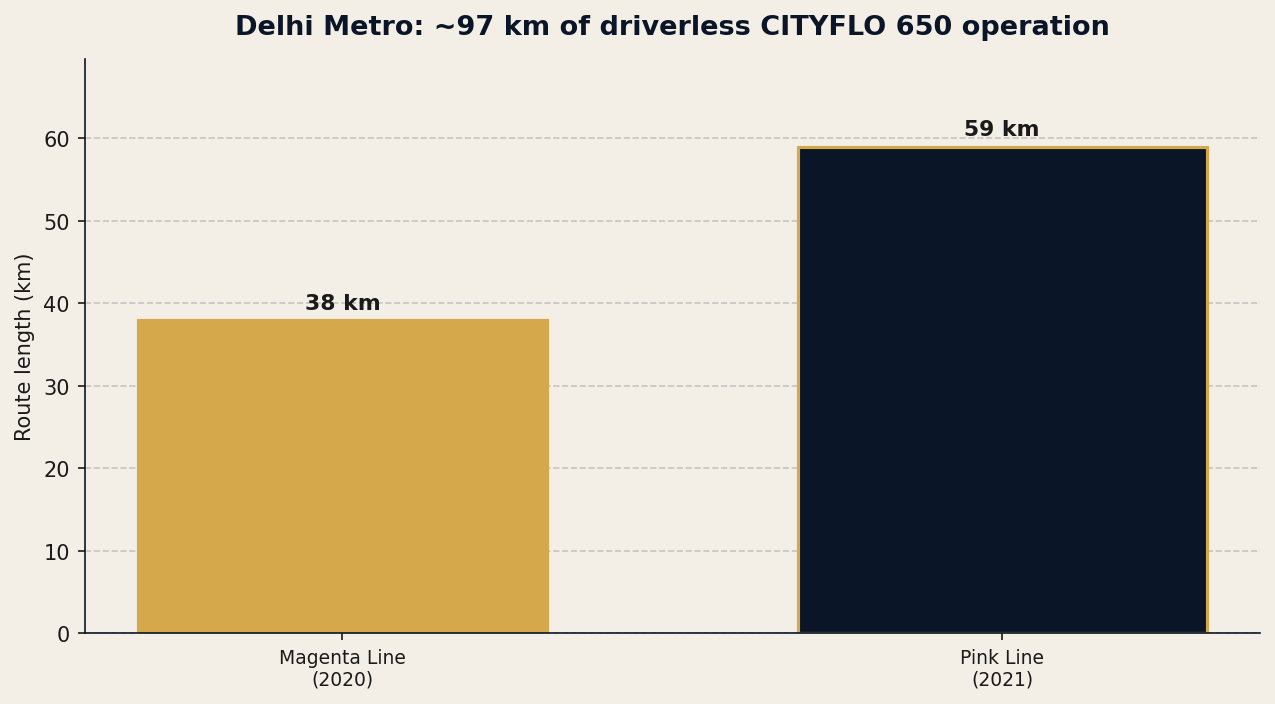
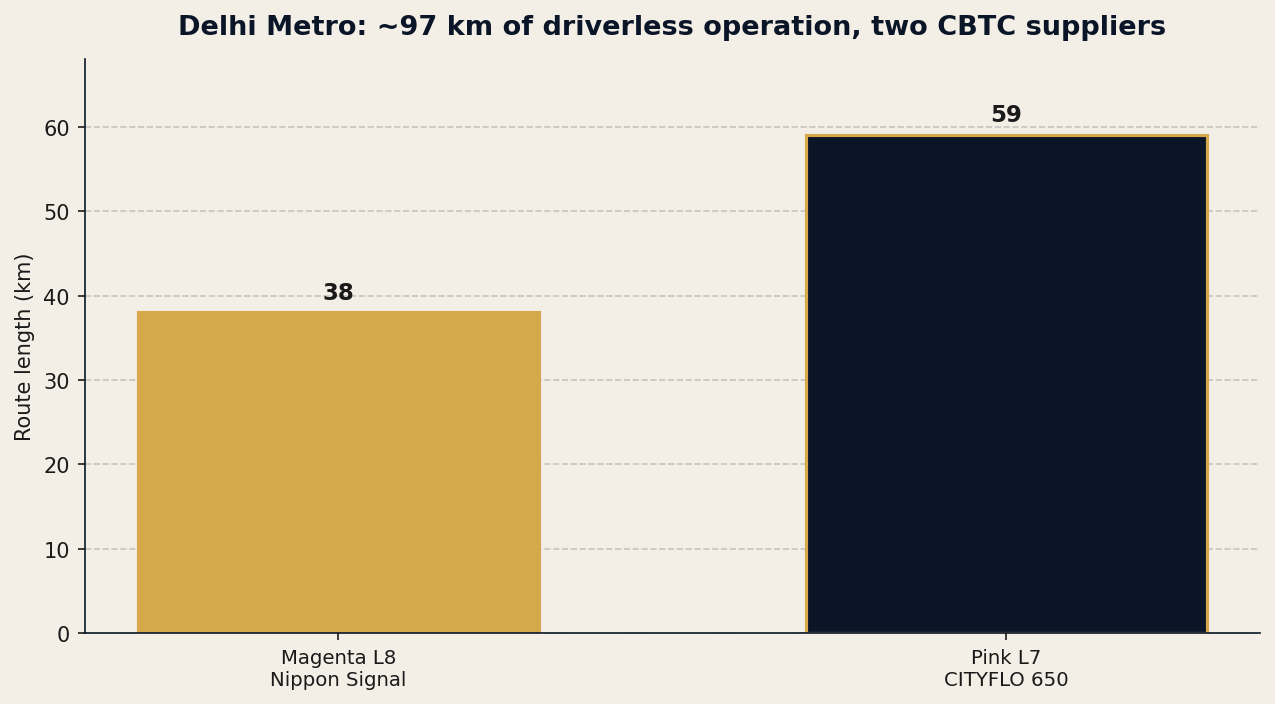
blog: apply adversarial fact-check corrections to wave-1/2 articles
Two independent fact-check passes over the 11 new articles surfaced
errors, now fixed before publication:
- Delhi: Magenta Line (India's first driverless, 2020) uses Nippon
  Signal SPARCS, NOT Bombardier CITYFLO 650 — corrected title/meta/body/
  figure/chart; only the Pink Line is CITYFLO 650.
- Dubai: figure double-counted Route 2020 (Red Line 67 km already
  includes it) — corrected to ~90 km network (Red 52 in 2009); fixed the
  Guinness date/narrative (record set 2011, held since, not 2009/reclaimed
  2021); softened the 90-second headway claim to Thales's stated figure.
- Kuala Lumpur: intro ridership (1.5M) contradicted the body (>750k) —
  reconciled to >750k weekday.
- VAL: dropped "first new US metro since 1993" (Tren Urbano 2004);
  kept the defensible first-US-GoA-4 claim.
- Training: IEEE 1474.1 first issued 1999, not 2004.
- Seoul: dropped an unverified contract figure and softened two
  superlatives (light-metro "mainline-scale"; Busan-Gimhae "first").

diff --git a/blog-drafts/delhi-metro-cbtc.md b/blog-drafts/delhi-metro-cbtc.md
@@ -1,11 +1,11 @@
 ---
 title: "Delhi Metro CBTC: Driverless Operation Inside a Fast, Cost-Disciplined Program"
 slug: delhi-metro-cbtc
-description: "How Delhi Metro CBTC — a Bombardier CITYFLO 650 moving-block deployment that carried India's first driverless train in December 2020 — scaled unattended operation across the Magenta and Pink Lines, and what US agencies can learn from a very large, fast, cost-disciplined program."
+description: "How Delhi Metro CBTC — Nippon Signal on the Magenta Line that carried India's first driverless train in December 2020, and Bombardier CITYFLO 650 on the Pink Line — scaled unattended operation, and what US agencies can learn from a fast, cost-disciplined program."
 date: 2026-08-18
 author: "Chunjun (Francisco) Wang"
 category: international-benchmarks
-tags: [CBTC, Delhi Metro, driverless, GoA 4, DMRC, Bombardier CITYFLO 650, i-ATS, international]
+tags: [CBTC, Delhi Metro, driverless, GoA 4, DMRC, Nippon Signal SPARCS, CITYFLO 650, i-ATS, international]
 primary_keyword: "Delhi Metro CBTC"
 secondary_keywords: ["Delhi Metro driverless", "Magenta Line UTO", "CITYFLO 650 CBTC", "DMRC signalling", "i-ATS indigenous train control"]
 related_chapters: [8, 11]
@@ -30,9 +30,9 @@ For US agencies, the transferable insight is organizational, not technical. Delh
 
 ## Delhi Metro CBTC: moving block on the Magenta and Pink Lines
 
-The two driverless lines run on Bombardier's CITYFLO 650, a radio-based moving-block CBTC product that supports the full range of operating modes up to Unattended Train Operation (UTO) ([Railway-News, 2018](https://railway-news.com/delhi-metro-line-7-cityflo-650/)). Each train continuously determines its own position, reports it over a radio network to wayside equipment, and receives a movement authority computed as a moving block rather than a fixed track-circuit section — the same functional architecture, shaped by IEEE Std 1474, described in [GoA 0–4 Explained: The Five Grades of Train Automation](/blog/goa-0-4-explained-grades-of-automation). On the Magenta and Pink Lines the system drives Hyundai Rotem rolling stock at speeds up to about 85 km/h, with a design capability for headways near 90 seconds, and every station is fitted with platform screen doors to enforce the platform-edge separation that unattended running requires.
+Delhi's two driverless lines run radio-based moving-block CBTC from two different suppliers: the Magenta Line (Line 8) on Nippon Signal's SPARCS, and the Pink Line (Line 7) on Bombardier's CITYFLO 650, now part of Alstom ([International Railway Journal](https://www.railjournal.com/signalling/nippon-signal-cbtc-for-delhi-metro-line-8/); [Railway-News, 2018](https://railway-news.com/delhi-metro-line-7-cityflo-650/)). Both support the full range of operating modes up to Unattended Train Operation (UTO). Each train continuously determines its own position, reports it over a radio network to wayside equipment, and receives a movement authority computed as a moving block rather than a fixed track-circuit section — the same functional architecture, shaped by IEEE Std 1474, described in [GoA 0–4 Explained: The Five Grades of Train Automation](/blog/goa-0-4-explained-grades-of-automation). On the Magenta and Pink Lines the system drives Hyundai Rotem rolling stock at speeds up to about 85 km/h, with a design capability for headways near 90 seconds, and every station is fitted with platform screen doors to enforce the platform-edge separation that unattended running requires.
 
-Nothing in that stack is unusual to a US engineer. What is worth noting is the supplier lineage. CITYFLO 650 was delivered by Bombardier Transportation, whose rail business became part of Alstom when that acquisition closed in early 2021 — so the product that carried India's first driverless train is now part of the Alstom portfolio, and Alstom has continued as the train-control and rolling-stock supplier on the Phase 4 extensions of both lines ([Metro Rail Today](https://metrorailtoday.com/news/alstom-powers-delhi-metros-pink-and-magenta-line-with-driverless-trains-and-cbtc-signalling)). The consolidation of the global CBTC vendor field — Bombardier into Alstom, and the broader thinning of independent suppliers — is exactly the market condition that makes vendor-neutral specification harder for US agencies, and it is why Delhi's later indigenisation push is more than a nationalist gesture.
+Nothing in that stack is unusual to a US engineer. What is worth noting is the supplier lineage. The Pink Line's CITYFLO 650 was delivered by Bombardier Transportation, whose rail business became part of Alstom when that acquisition closed in early 2021, and Alstom has continued as a train-control and rolling-stock supplier on the Phase 4 extensions ([Metro Rail Today](https://metrorailtoday.com/news/alstom-powers-delhi-metros-pink-and-magenta-line-with-driverless-trains-and-cbtc-signalling)). The Magenta Line's first-driverless system, by contrast, came from Nippon Signal — a reminder that even a single network can carry more than one CBTC lineage. The consolidation of the global CBTC vendor field — Bombardier into Alstom, and the broader thinning of independent suppliers — is exactly the market condition that makes vendor-neutral specification harder for US agencies, and it is why Delhi's later indigenisation push is more than a nationalist gesture.
 
 ## December 2020: India's first driverless train
 
@@ -45,7 +45,7 @@ The transition was deliberately gradual, and the distinction matters for anyone 
 
 Delhi did not stop at one line. In 2021 it brought Grade of Automation 4 (GoA 4) service to the Pink Line, designated Line 7, a roughly 59-kilometer corridor from Majlis Park to Shiv Vihar that forms the network's near-circular ring and stands as the longest driverless line in the country. With the Magenta and Pink Lines together, Delhi's unattended network reached close to 97 route-kilometers, which by one accounting placed it among the four largest driverless metro systems in the world at the time ([Wikipedia: Delhi Metro](https://en.wikipedia.org/wiki/Delhi_Metro)).
 
-[FIGURE: Bar chart of Delhi Metro's driverless (GoA 4) route length by line, in kilometers. DATA: Magenta Line (Line 8, 2020)=38, Pink Line (Line 7, 2021)=59. Caption: "Two Bombardier CITYFLO 650 lines make up close to 97 route-km of unattended operation — the Magenta Line's 38 km and the Pink Line's 59 km — built one line at a time on a live, growing network."]
+[FIGURE: Bar chart of Delhi Metro's driverless (GoA 4) route length by line, in kilometers. DATA: Magenta Line (Line 8, 2020)=38, Pink Line (Line 7, 2021)=59. Caption: "Close to 97 route-km of unattended operation on two CBTC platforms — the Magenta Line's 38 km (Nippon Signal SPARCS) and the Pink Line's 59 km (Bombardier/Alstom CITYFLO 650) — built one line at a time on a live, growing network."]
 
 The engineering significance is the reverse of Dubai's. Where the [Dubai Metro's driverless network](/blog/dubai-metro-cbtc-driverless-network) shows what GoA 4 looks like when it is designed into a greenfield system from the first survey stake, Delhi shows unattended operation added to an operating railway, phase by phase, with the standardization done up front so that later lines and extensions could inherit the same train-control approach. Phase 4 continues that logic: DMRC is procuring more than 300 driverless metro cars from Alstom — trainsets for the Pink and Magenta extensions and for the new Golden Line — designed for unattended operation and rated to a maximum safe speed near 95 km/h ([Metro Rail Today](https://metrorailtoday.com/news/dmrc-receives-first-driverless-trainset-for-delhi-metro-phase-4-project)). Extending a homogeneous automated line is a far smaller engineering problem than stitching new CBTC into a legacy interlocking, which is the boundary that consumes American brownfield schedules.
 
@@ -61,7 +61,7 @@ For US agencies, this is the most quotable part of the whole case. American prog
 
 - **The bottleneck is management, not the technology.** Delhi reached fully driverless CBTC on a very large network because it standardized rolling stock and train control up front and delivered on schedule; the transferable lesson for US agencies is organizational discipline, not a cheaper product.
 - **Adding UTO to a live network is a phased discipline.** Delhi ran attended for a transition period before withdrawing staff from the cab. That conservative, two-step commissioning is the credible path to GoA 4 and the one US safety oversight will expect.
-- **Vendor consolidation is a procurement risk, not a footnote.** The product that carried India's first driverless train, Bombardier's CITYFLO 650, is now part of Alstom. A thinning supplier field makes vendor-neutral specification harder and raises the stakes on writing supplier-agnostic requirements.
+- **Vendor consolidation is a procurement risk, not a footnote.** Delhi's two driverless lines run different CBTC products — Nippon Signal SPARCS on the Magenta Line, Bombardier's CITYFLO 650 (now part of Alstom) on the Pink Line. A thinning supplier field makes vendor-neutral specification harder and raises the stakes on writing supplier-agnostic requirements.
 - **Indigenisation should be sequenced, not slogan-driven.** Delhi started with the non-vital supervision layer (i-ATS) to build domestic capacity before attempting vital CBTC. A US domestic-content push on train control should respect the same order and the same certification bar.
 - **Do not copy the unit costs.** Delhi's labor economics, procurement law, and concessional financing do not transfer; citing its per-kilometer cost or schedule in a US business case invites a false comparison, even as its management model does travel.
 
@@ -73,6 +73,7 @@ This post is an 11-minute case study. The full treatment of international CBTC b
 
 - Wang, C. (2026). *Communications-Based Train Control, Volume 2: Operations, Deployment & Economics*. Independent. ISBN 979-8-258-54528-2. — [Chapter 11, "International Benchmarks with US Relevance"]
 - Railway-News. *Delhi Metro Line 7 Section Opens with Bombardier CITYFLO 650 System*. [railway-news.com](https://railway-news.com/delhi-metro-line-7-cityflo-650/)
+- International Railway Journal. *Nippon Signal to supply CBTC for Delhi Metro Line 8 (Magenta Line)*. [railjournal.com](https://www.railjournal.com/signalling/nippon-signal-cbtc-for-delhi-metro-line-8/)
 - The Print. *PM Modi launches India's first driverless metro train in Delhi. Here's all you need to know*. [theprint.in](https://theprint.in/theprint-essential/pm-modi-launches-indias-first-driverless-metro-train-in-delhi-heres-all-you-need-to-know/575285/)
 - Metro Rail Today. *Alstom powers Delhi Metro's Pink and Magenta Line with Driverless Trains and CBTC Signalling*. [metrorailtoday.com](https://metrorailtoday.com/news/alstom-powers-delhi-metros-pink-and-magenta-line-with-driverless-trains-and-cbtc-signalling)
 - Metro Rail Today. *DMRC receives first driverless trainset for Delhi Metro Phase 4 Project*. [metrorailtoday.com](https://metrorailtoday.com/news/dmrc-receives-first-driverless-trainset-for-delhi-metro-phase-4-project)

diff --git a/blog-drafts/seoul-metro-cbtc-line-9.md b/blog-drafts/seoul-metro-cbtc-line-9.md
@@ -30,12 +30,12 @@ The other reason is the signalling itself. Line 9 does not run on radio moving-b
 
 Korea's genuine unattended operation lives on newer, mostly Thales-signalled lines, and it arrived early. The Shinbundang Line, since rebranded the DX Line, opened in October 2011 as what its operator describes as Korea's first driverless heavy-rail metro and, reportedly, the fifth subway in the world to run completely without an onboard driver. It now runs 33.4 kilometers with 16 stations under operator NeoTrans, on a Thales CBTC system at GoA 4 — full unattended train operation — with Hyundai Rotem trainsets and a maximum speed above 90 kilometers per hour, the fastest average speed of any subway line in the country. Where Line 9 optimizes throughput with drivers, the Shinbundang Line demonstrated that a Korean private operator could run genuine unattended service at intercity speeds a decade before most US agencies placed a single CBTC train in revenue service.
 
-Incheon completed the picture on the mainline scale. Incheon Subway Line 2 opened on 30 July 2016 as a fully driverless line, 29.2 kilometers and 27 stations, on a Thales SelTrac CBTC system delivered under a contract reported at 40 million euros, with 37 two-car Hyundai Rotem trainsets built in 2013 running on a 750-volt third rail. The line reportedly holds peak headways in the range of four to five minutes, and every station was built to accommodate longer four-car trains as demand grows — a designed-in capacity margin that greenfield GoA 4 lines can afford and brownfield retrofits almost never can. Line 2 belongs squarely in the genuine-GoA-4 column discussed in [Driverless Operations Worldwide: Who's GoA 4, Who's Faking It](/blog/driverless-operations-worldwide-goa-4), and it did what Dubai did, at a KRW 2 trillion construction cost, without the Gulf's blank-sheet advantage: it threaded a driverless metro through an existing Korean city.
+Incheon completed the picture on the mainline scale. Incheon Subway Line 2 opened on 30 July 2016 as a fully driverless line, 29.2 kilometers and 27 stations, on a Thales SelTrac CBTC system, with 37 two-car Hyundai Rotem trainsets built in 2013 running on a 750-volt third rail. The line reportedly holds peak headways in the range of four to five minutes, and every station was built to accommodate longer four-car trains as demand grows — a designed-in capacity margin that greenfield GoA 4 lines can afford and brownfield retrofits almost never can. Line 2 belongs squarely in the genuine-GoA-4 column discussed in [Driverless Operations Worldwide: Who's GoA 4, Who's Faking It](/blog/driverless-operations-worldwide-goa-4), and it did what Dubai did, at a KRW 2 trillion construction cost, without the Gulf's blank-sheet advantage: it threaded a driverless metro through an existing Korean city.
 
 
 ## Light metro at the edges, and the crowding paradox
 
-The clearest lesson from Seoul is one its engineers learned the hard way: driverless does not mean high capacity. The two automated light-metro lines that fan out from the region's airports prove the point. The Busan-Gimhae Light Rail Transit opened in September 2011, running 23.5 kilometers on continuous viaduct through Gimhae International Airport with 21 stations, signalled by Thales and worked by driverless two-car Hyundai Rotem sets — the first commercially qualified driverless light rail in Korea. The Gimpo Goldline followed on 28 September 2019, a driverless light metro of 23.67 kilometers and 10 stations feeding Gimpo airport and the dense new towns of its namesake city, run by 23 two-car Hyundai Rotem trainsets at up to 80 kilometers per hour, with onboard attendants rather than drivers.
+The clearest lesson from Seoul is one its engineers learned the hard way: driverless does not mean high capacity. The two automated light-metro lines that fan out from the region's airports prove the point. The Busan-Gimhae Light Rail Transit opened in September 2011, running 23.5 kilometers on continuous viaduct through Gimhae International Airport with 21 stations, signalled by Thales and worked by driverless two-car Hyundai Rotem sets — one of Korea's earliest driverless light rail lines. The Gimpo Goldline followed on 28 September 2019, a driverless light metro of 23.67 kilometers and 10 stations feeding Gimpo airport and the dense new towns of its namesake city, run by 23 two-car Hyundai Rotem trainsets at up to 80 kilometers per hour, with onboard attendants rather than drivers.
 
 Both lines were sized for airport-access demand and both were overwhelmed by commuter demand. The Gimpo Goldline in particular became a national crowding scandal: its two-car driverless trains have run at more than 200 percent of rated capacity, and in August 2024 the operator raised frequency from 24 to 26 trains an hour, close to the practical ceiling of the CBTC headway, without solving the problem. The constraint is not the signalling, which can pack trains tightly, but the train — two narrow cars cannot be lengthened on demand the way Incheon Line 2's four-car-ready platforms can. For a US agency tempted to read "driverless" as "capacity solution," Gimpo is the cautionary case: automation buys frequency and labor economics, not train length, and a line specified too small at the platform stays too small forever. This is the same platform-length discipline examined in the greenfield-design lessons of [Singapore's North East Line](/blog/singapore-mrt-nel-original-greenfield-cbtc), applied here as a warning rather than a model.
 
@@ -54,7 +54,7 @@ Seoul's value to an American program is that it separates several variables the 
 ## What this means in practice
 
 - **Do not confuse a famous metro with a driverless one.** Line 9 is Korea's showcase express line, but it runs Alstom track-circuit ATC at GoA 2 with a driver; citing it as a CBTC or driverless benchmark misstates the technology and invites a flawed business case.
-- **Korea proves driverless CBTC at two scales.** The Shinbundang and Incheon Line 2 lines demonstrate mature GoA 4 heavy and mainline-scale operation; the technology risk US agencies fear was retired abroad years ago.
+- **Korea proves driverless CBTC at genuine urban scale.** The Shinbundang and Incheon Line 2 lines demonstrate mature GoA 4 operation on real, city-threading routes; the technology risk US agencies fear was retired abroad years ago.
 - **Automation is not a capacity fix.** The Gimpo Goldline runs driverless at more than 200 percent load because two-car trains cannot grow; specify platform and train length for the demand you will have, not the demand you have today.
 - **The legacy retrofit is the real analog.** Seoul's Ui-Sinseol CBTC pilot, and its planned Line 2 and Line 9 conversions, are brownfield resignaling with the same cutover and re-certification costs that shape every US program.
 - **Domestic supply is strategy, not sentiment.** KTCS-M gives Korea a home-grown CBTC option that eases vendor lock-in; under BABA, a comparable US supply base is close to a funding precondition rather than a preference.

diff --git a/blog-drafts/dubai-metro-cbtc-driverless-network.md b/blog-drafts/dubai-metro-cbtc-driverless-network.md
@@ -14,7 +14,7 @@ og_image: "/blog/img/dubai-metro-cbtc-driverless-network.png"
 read_time: "10 min"
 ---
 
-On 9 September 2009 — at exactly nine minutes past nine in the evening, a date chosen for its numerical symmetry — the first train on the Dubai Metro Red Line pulled out of a station with no driver in the cab, and no cab at all. Seven years before an American transit agency would place a single revenue train under Communications-Based Train Control on a brownfield line, an emirate with no prior heavy-rail tradition opened a fully automated metro that would hold, and later reclaim, the Guinness World Record for the longest driverless network on earth. For a US transit engineer, Dubai is the cleanest available demonstration of what Communications-Based Train Control (CBTC) delivers when it is designed into a system from the first survey stake rather than retrofitted into a signaling estate built during the Truman administration.
+On 9 September 2009 — at exactly nine minutes past nine in the evening, a date chosen for its numerical symmetry — the first train on the Dubai Metro Red Line pulled out of a station with no driver in the cab, and no cab at all. Seven years before an American transit agency would place a single revenue train under Communications-Based Train Control on a brownfield line, an emirate with no prior heavy-rail tradition opened a fully automated metro that holds the Guinness World Record for the world's longest driverless metro line. For a US transit engineer, Dubai is the cleanest available demonstration of what Communications-Based Train Control (CBTC) delivers when it is designed into a system from the first survey stake rather than retrofitted into a signaling estate built during the Truman administration.
 
 ## Why a US engineer should study a Gulf metro
 
@@ -22,17 +22,17 @@ The United States tends to benchmark itself against London, Paris, and its own a
 
 ## The system: Thales SelTrac, driverless from the first day
 
-The Dubai Metro runs on a Thales SelTrac CBTC system, the same product family — under different generational designations — that governs the automated lines of Vancouver, London, and dozens of other networks. From revenue day one the metro operated at GoA 4: no driver, no attendant in the leading car, and full-height platform screen doors at every station to enforce the platform-edge separation that unattended operation requires. The CBTC continuously determines each train's position independent of track circuits, exchanges data with wayside zone controllers, and computes the moving-block braking authority that lets trains follow one another at a design headway of roughly 90 seconds at a maximum speed near 90 kilometers per hour.
+The Dubai Metro runs on a Thales SelTrac CBTC system, the same product family — under different generational designations — that governs the automated lines of Vancouver, London, and dozens of other networks. From revenue day one the metro operated at GoA 4: no driver, no attendant in the leading car, and full-height platform screen doors at every station to enforce the platform-edge separation that unattended operation requires. The CBTC continuously determines each train's position independent of track circuits, exchanges data with wayside zone controllers, and computes the moving-block braking authority that lets trains follow one another at close moving-block headways — Thales cites service headways as short as two minutes — at a maximum speed near 90 kilometers per hour.
 
 Nothing in that architecture is exotic to a US engineer; it is the same IEEE 1474-shaped functional stack described in [GoA 0–4 Explained: The Five Grades of Train Automation](/blog/goa-0-4-explained-grades-of-automation). What is unusual is that every element — the vital onboard processor, the radio, the platform doors, the central Automatic Train Supervision — was specified together, by one authority, for a system that had no trains, no track, and no operating rules to be compatible with. The integration risk that consumes American brownfield schedules simply did not exist.
 
 ## The scale: two lines, a record, and an Expo extension
 
-The network opened as two lines. The Red Line runs roughly 67 kilometers with 35 stations along the Sheikh Zayed Road spine; the Green Line adds about 22.5 kilometers and 20 stations through the older urban core. That combined length was enough to earn the 2009 Guinness World Record for the longest fully automated metro, a title Dubai held until 2016 and reclaimed in 2021.
+The network opened in September 2009 with the Red Line, then roughly 52 kilometers along the Sheikh Zayed Road spine; the Green Line, about 22.5 kilometers and 20 stations through the older urban core, followed in 2011. The Red Line set the Guinness World Record for the world's longest driverless metro line, a distinction Dubai has retained as the network grew — the Red Line reaching about 67 kilometers and 35 stations when the 15-kilometer Route 2020 branch opened in 2021, for a present-day network of roughly 90 route-kilometers.
 
 The 2021 milestone matters more than a record certificate. Ahead of the World Expo, the Roads and Transport Authority (RTA) extended the Red Line by a 15-kilometer branch — the project marketed as Route 2020 — again contracting Thales for the signaling and again bringing the extension into service as a seamless part of the existing automated system. A brownfield US extension of comparable length would have required interfacing new CBTC with a legacy interlocking, negotiating a cutover window on a line carrying passengers, and re-certifying the safety case across the boundary. Dubai extended a homogeneous automated line into more homogeneous automated line, which is an engineering problem of a fundamentally lower order.
 
-[FIGURE: Bar chart of the Dubai Metro network by segment and opening year, showing route length in kilometers. DATA: Red Line (2009)=67, Green Line (2011)=22.5, Route 2020 ext. (2021)=15. Caption: "Dubai extended one homogeneous GoA 4 network — roughly 104 route-km on a single Thales SelTrac CBTC platform — without a legacy cutover."]
+[FIGURE: Bar chart of the Dubai Metro network by segment and opening year, showing route length in kilometers. DATA: Red Line (2009)=52, Green Line (2011)=22.5, Route 2020 ext. (2021)=15. Caption: "Dubai grew one homogeneous GoA 4 network to roughly 90 route-km on a single Thales SelTrac CBTC platform, without a legacy cutover."]
 
 ## Why greenfield changed the economics
 

diff --git a/blog-drafts/cbtc-training-how-engineers-build-competency.md b/blog-drafts/cbtc-training-how-engineers-build-competency.md
@@ -53,7 +53,7 @@ This is why the apprenticeship model, formal or informal, remains the center of 
 
 ## Standards literacy: reading IEEE 1474 and IEC 62290 for yourself
 
-The one form of CBTC training an engineer can begin alone, at no cost beyond the price of the documents, is reading the standards. IEEE Std 1474.1 defines the performance and functional requirements for a CBTC system — high-resolution train location independent of track circuits, continuous bidirectional train-to-wayside data communication, and vital onboard and wayside processors implementing automatic train protection, with optional automatic train operation and supervision. First issued in 2004 and revised since, it is the vocabulary every US specification is written in. The international counterpart, the IEC 62290 series on urban guided transport management and command and control systems, defines the grades of automation from GoA 1 through unattended GoA 4 that structure any conversation about driverless operation.
+The one form of CBTC training an engineer can begin alone, at no cost beyond the price of the documents, is reading the standards. IEEE Std 1474.1 defines the performance and functional requirements for a CBTC system — high-resolution train location independent of track circuits, continuous bidirectional train-to-wayside data communication, and vital onboard and wayside processors implementing automatic train protection, with optional automatic train operation and supervision. First issued in 1999 and revised since (the 2004 edition is the current baseline), it is the vocabulary every US specification is written in. The international counterpart, the IEC 62290 series on urban guided transport management and command and control systems, defines the grades of automation from GoA 1 through unattended GoA 4 that structure any conversation about driverless operation.
 
 Reading these documents does two things at once. It gives an engineer the shared language that vendor training and agency specifications both assume, and it exposes the fact that the United States lacks a formal signaling-competency credential of its own. The Principles and Practice of Engineering examination behind the US Professional Engineer license has no railway-signaling discipline; the closest structured competency scheme, the Institution of Railway Signal Engineers licensing framework, is British and not widely adopted here. In that vacuum, standards literacy is the most portable, vendor-neutral competency an engineer can build, and it pairs well with the reading list in [how to become a CBTC engineer in 2026](/blog/how-to-become-a-cbtc-engineer-2026).
 

diff --git a/blog-drafts/val-lille-driverless-origin.md b/blog-drafts/val-lille-driverless-origin.md
@@ -49,7 +49,7 @@ The pattern is telling. When the format that Lille pioneered reached the United 
 
 ## The driverless idea is 40 years old — what took the United States so long
 
-Not until 30 June 2023 did a US city open a fully driverless, GoA 4 urban metro carrying the general public: Honolulu's Skyline, built by Hitachi Rail on an elevated guideway, the first entirely new major metro system to launch in the United States since 1993 and the country's first true unattended urban railway. Roughly 40 years separated it from Lille.
+Not until 30 June 2023 did a US city open a fully driverless, GoA 4 urban metro carrying the general public: Honolulu's Skyline, built by Hitachi Rail on an elevated guideway — the country's first true unattended, GoA 4 urban railway. Roughly 40 years separated it from Lille.
 
 The delay was not technological. The hardware to run a metro without a driver existed, was certified, and was operating in revenue service on three continents — and, as O'Hare and Jacksonville showed, inside the United States itself — while American cities were still debating whether to attempt it. The obstacles were the familiar American ones: the dominance of brownfield systems, where a driverless overlay must be retrofitted onto legacy signaling and legacy labor agreements; the fragmentation of funding, procurement, and safety oversight across federal, state, and local authorities; and an institutional caution that treats unattended operation as a hazard to be avoided rather than a mature option to be evaluated. Countries that built greenfield lines — France with Lille and later [Paris Métro Line 14](/blog/paris-metro-line-14-driverless-showcase), Canada with Vancouver's SkyTrain in 1985 — reached driverless operation early because they were not fighting their own history. The lesson Lille offers a US program manager is not that America was slow to invent driverless transit; it is that America was slow to deploy a capability it had already proven it could run.
 

diff --git a/blog-drafts/kuala-lumpur-kelana-jaya-driverless.md b/blog-drafts/kuala-lumpur-kelana-jaya-driverless.md
@@ -14,7 +14,7 @@ og_image: "/blog/img/kuala-lumpur-kelana-jaya-driverless.png"
 read_time: "11 min"
 ---
 
-On 1 September 1998, a two-car train slid out of a station on the newly opened PUTRA Light Rail Transit line in Kuala Lumpur with no driver in the leading car and no cab for one to sit in — the opening move in what would grow into the largest Kuala Lumpur driverless metro network in Southeast Asia. It was five years before Singapore opened its first driverless heavy-metro line and a full 18 years before an American transit agency placed a single revenue train under Communications-Based Train Control on a brownfield subway. What began that day as one line has become, nearly three decades later, three fully automated lines, two distinct CBTC lineages, and more than 150 route-kilometers of unattended operation carrying well over a million and a half riders on a normal weekday.
+On 1 September 1998, a two-car train slid out of a station on the newly opened PUTRA Light Rail Transit line in Kuala Lumpur with no driver in the leading car and no cab for one to sit in — the opening move in what would grow into the largest Kuala Lumpur driverless metro network in Southeast Asia. It was five years before Singapore opened its first driverless heavy-metro line and a full 18 years before an American transit agency placed a single revenue train under Communications-Based Train Control on a brownfield subway. What began that day as one line has become, nearly three decades later, three fully automated lines, two distinct CBTC lineages, and more than 150 route-kilometers of unattended operation carrying well over three-quarters of a million riders on a normal weekday.
 
 ## Why Kuala Lumpur's driverless metro belongs in a US engineer's benchmark set
 
